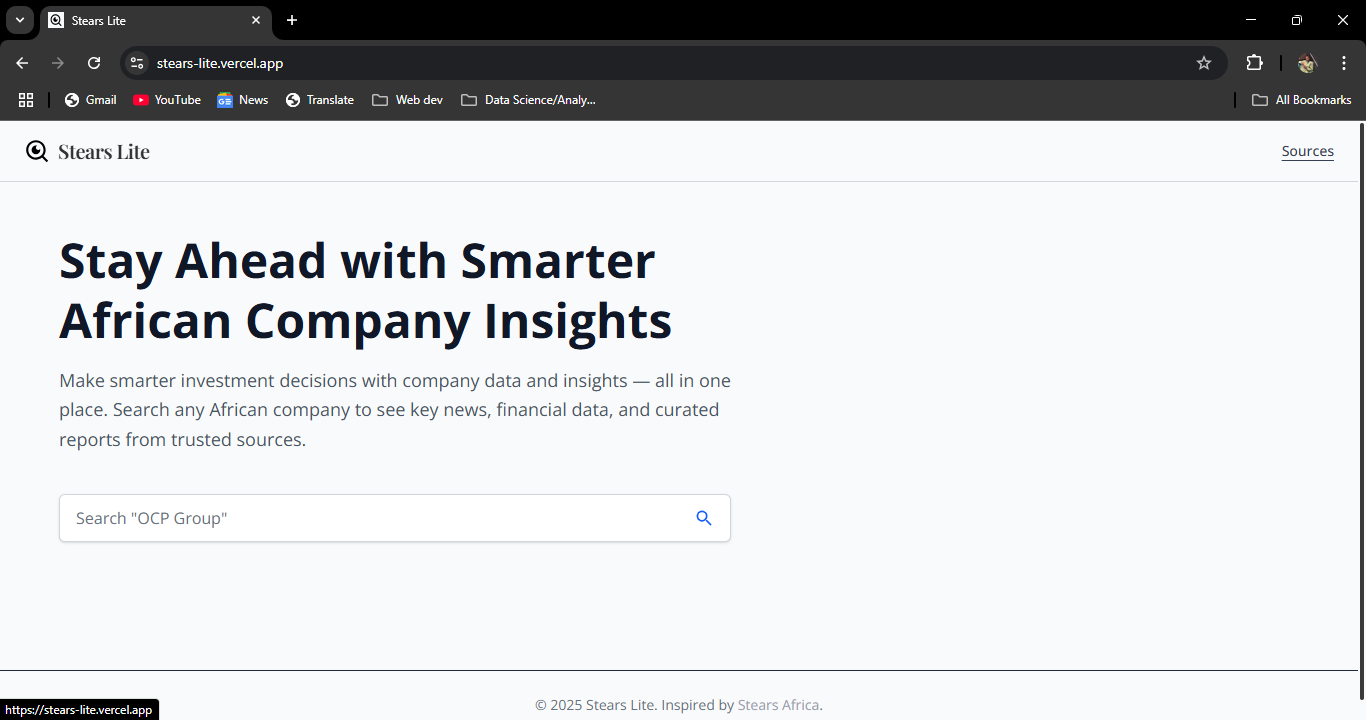
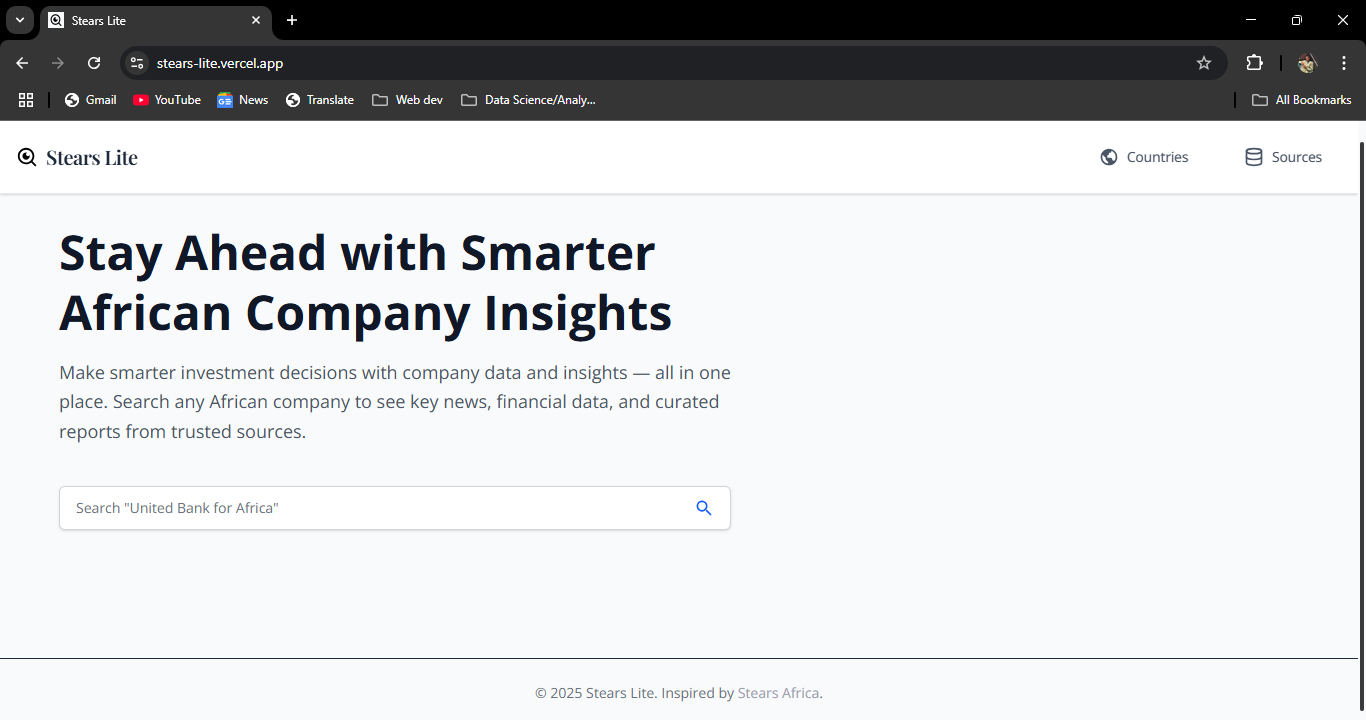
update documentation

diff --git a/README.md b/README.md
@@ -26,6 +26,7 @@
 
 - Company search interface with instant display
 - Displays insights such as industry, founding year, country, funding, revenue, and more
+- Country page with macro economic indicators
 - Automatic caching to avoid redundant scraping
 - Built with modern, scalable technologies (Next.js + FastAPI)
 - MongoDB backend with auto-updated timestamps
@@ -89,6 +90,9 @@ NEXT_PUBLIC_BACKEND_URL=next_api_url_here
 <div align="center">
   <img src="./assets/stears-lite-result-desktop.png" alt="Stears Lite - Desktop View" width="80%" style="margin-bottom: 10px;" />
   <img src="./assets/stears-lite-result-mobile.jpg" alt="Stears Lite - Mobile View" width="40%" />
+
+  <img src="./assets/stears-lite-country-desktop.png" alt="Stears Lite - Desktop View" width="80%" style="margin-bottom: 10px;" />
+  <img src="./assets/stears-lite-country-mobile.jpg" alt="Stears Lite - Mobile View" width="40%" />
 </div>
 
 ---
@@ -119,4 +123,3 @@ This project is inspired by [Stears Africa](https://stears.co) and was built to 
 ## Author
 
 Built by [Toluwalashe Ogunleye](https://tolu-portfolio.vercel.app/)
-Feel free to connect, fork, or star if you find it useful!
